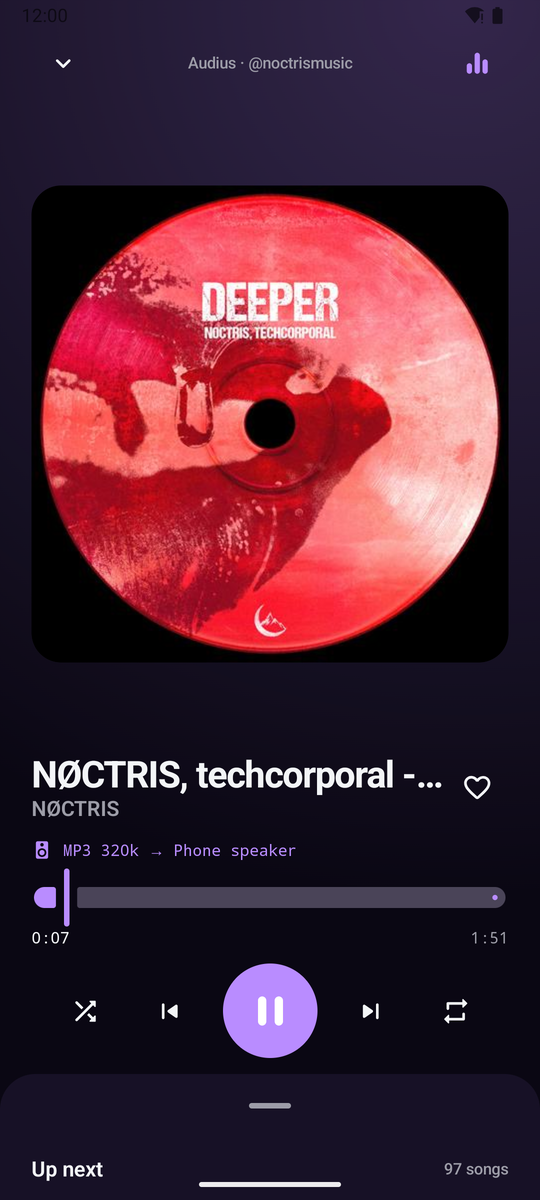
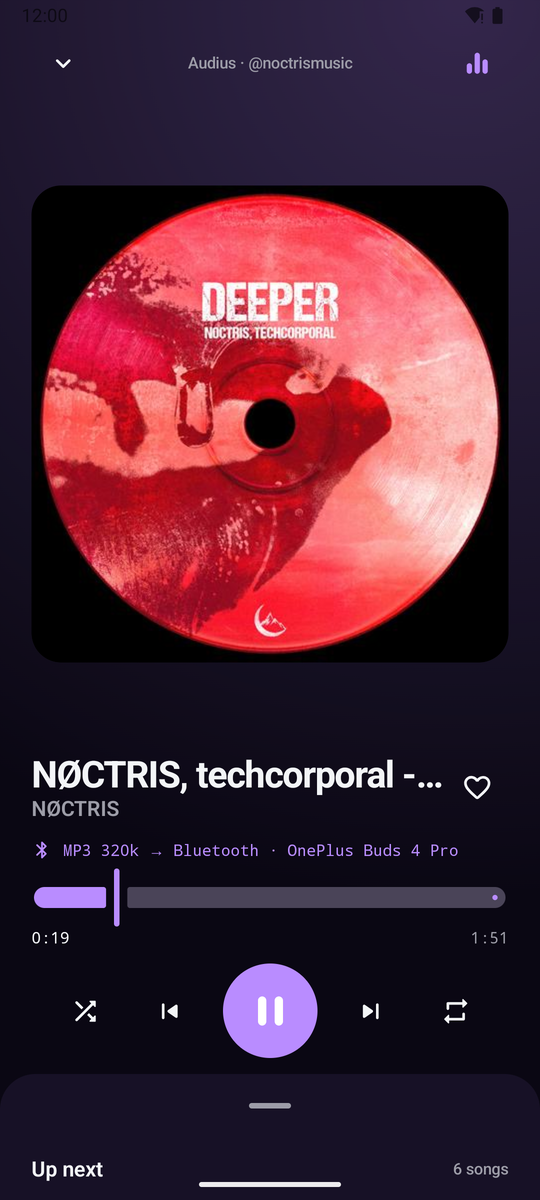
Download page: Now Playing with a USB DAC and Bluetooth earbuds, output details

diff --git a/README.md b/README.md
@@ -24,13 +24,14 @@ all shaped by **Sound Lab**: a 10-band EQ, adaptive bass, headphone correction a
 ## 🎵 Your music, offline
 
 <p align="center">
-  <img src="screenshots/o2-album.png" width="240" alt="Album page with play and shuffle">
-  <img src="screenshots/o3-nowplaying.png" width="240" alt="Now playing a 24-bit 96 kHz FLAC, showing source and output">
-  <img src="screenshots/o4-retro.png" width="240" alt="The Retro theme: the cover spins like a vinyl record">
+  <img src="screenshots/o2-album.png" width="200" alt="Album page with play and shuffle">
+  <img src="screenshots/o3-nowplaying.png" width="200" alt="Now playing a 24-bit 96 kHz FLAC through an iFi GO link 2 USB DAC">
+  <img src="screenshots/o5-output.png" width="200" alt="Output details: iFi GO link 2, sample rates up to 384 kHz, 16/24/32-bit">
+  <img src="screenshots/o4-retro.png" width="200" alt="The Retro theme: the cover spins like a vinyl record">
 </p>
 
 - **Finds the music on your phone by itself**: albums, artists, genres, songs and favourites, with covers. No internet needed.
-- **Plays hi-res files**: FLAC up to 24-bit / 192 kHz, plus MP3, AAC, Ogg and WAV. Now Playing shows the exact source format and where the sound goes (speaker, headphones, Bluetooth or a USB DAC).
+- **Plays hi-res files**: FLAC up to 24-bit / 192 kHz, plus MP3, AAC, Ogg and WAV. Now Playing shows the exact source format and where the sound goes: speaker, wired headphones, Bluetooth earbuds or a USB DAC, with the DAC's name and the sample rates it supports.
 - **Volume leveling** so every song plays at the same loudness, **crossfade** (0–12 s) and **gapless** albums
 - **For You** mixes built from what you play and favourite, worked out on your phone
 - **Themes** change the whole look, from Midnight and Aero glass to Retro vinyl, or make your own and share it
@@ -86,6 +87,8 @@ measurements you choose.
 - Independent music: [Audius](https://audius.co)
 - Headphone measurements: [AutoEq](https://github.com/jaakkopasanen/AutoEq) (MIT)
 
-<sub>The albums in the library screenshots are made up for these pictures; any resemblance to real releases is accidental.</sub>
+<sub>The albums in the library screenshots are made up for these pictures; any resemblance to real releases is accidental.
+Screenshots were taken on an emulator with the output simulated as the gear the developer uses (an iFi GO link 2 USB DAC and
+OnePlus Buds 4 Pro); on your phone Jukio shows whatever you connect. Product names belong to their owners; no affiliation.</sub>
 
 **Found a bug or have an idea?** Open an [issue](https://github.com/Voxsama/jukio-player-releases/issues).
